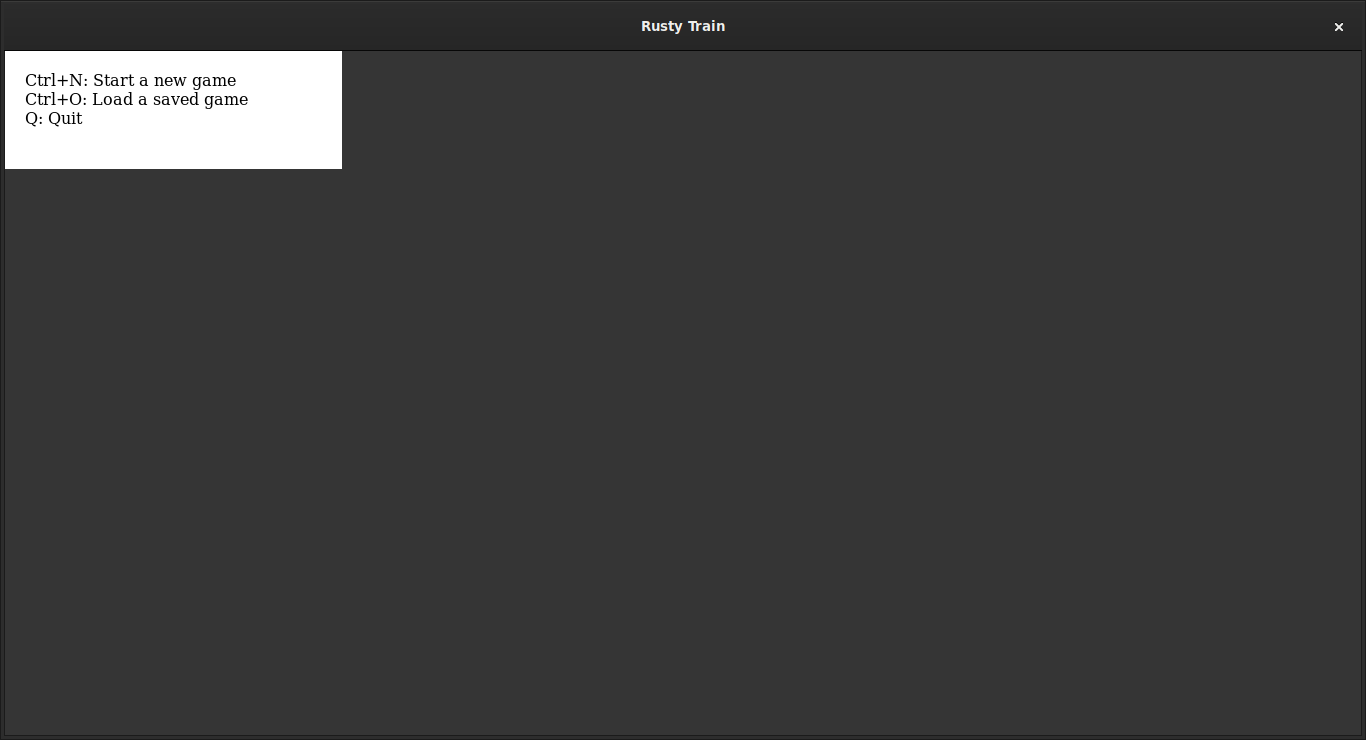
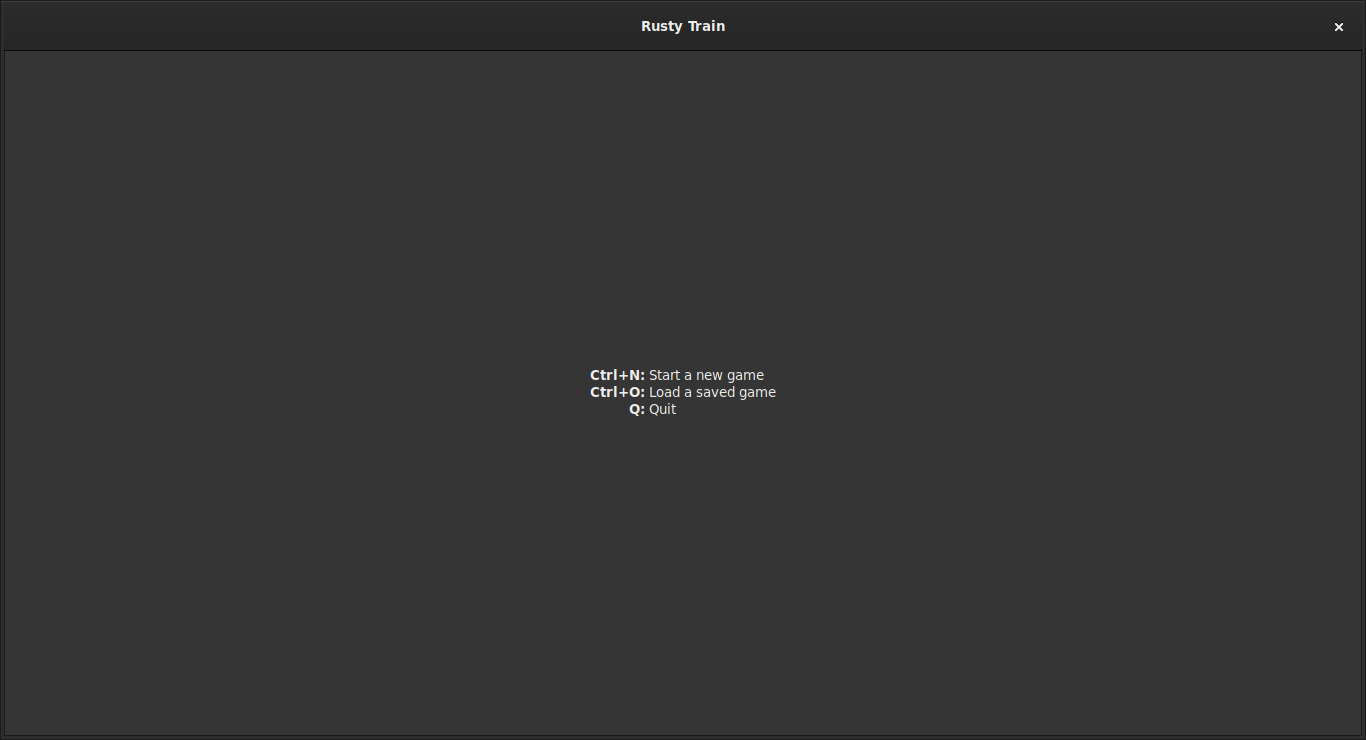
Show the starting help message with GTK labels
This respects the GTK theme, and is better handled in the Rusty Train
GUI than in the n18ui crate itself.

Changed region(s): [[0.0, 0.0622, 0.2767, 0.2486], [0.4305, 0.4973, 0.5534, 0.5595]]

diff --git a/src/bin/rusty_train.rs b/src/bin/rusty_train.rs
@@ -44,6 +44,7 @@ pub fn build(application: &gtk::Application) {
     let adj: Option<&gtk::Adjustment> = None;
     let scrolled_win = gtk::ScrolledWindow::new(adj, adj);
     let drawing_area = Box::new(DrawingArea::new)();
+    scrolled_win.set_child(Some(&drawing_area));
 
     // Create a second channel for sending "pings", which can be used to
     // trigger non-UI events, such as messages from tasks in other threads.
@@ -65,15 +66,10 @@ pub fn build(application: &gtk::Application) {
     );
     ui.draw();
 
-    let (width, height) = ui.map_size();
-
     bar.set_title(Some("Rusty Train"));
     bar.set_decoration_layout(Some("menu:close"));
     bar.set_show_close_button(true);
     window.set_titlebar(Some(&bar));
-
-    // Set the minimum size of the drawing area to the required canvas size.
-    drawing_area.set_size_request(width, height);
 
     // Create a channel to pass UI events to the `state` event handlers.
     let (tx, rx) =
@@ -115,8 +111,14 @@ pub fn build(application: &gtk::Application) {
         glib::source::Continue(true)
     });
 
+    // Show the starting message, rather than the map content.
+    let mut start_visible = true;
+    let start_widget = start_message();
+    window.set_child(Some(&start_widget));
+
     // Dispatch events to the appropriate handler.
     // Note that this closure owns `ui_state`.
+    let _window = window.clone();
     rx.attach(None, move |event| {
         let response = match event {
             UiEvent::ButtonPress(event) => ui.handle_button_press(&event),
@@ -124,13 +126,55 @@ pub fn build(application: &gtk::Application) {
             UiEvent::PingCurrentState(dest) => ui.ping(dest),
         };
         ui.respond(response);
+
+        // When a game is started or loaded, hide the starting message and
+        // show the map content instead.
+        if start_visible && ui.state.as_start().is_none() {
+            _window.remove(&start_widget);
+            _window.add(&scrolled_win);
+            _window.show_all();
+            start_visible = false;
+        }
+
         glib::source::Continue(true)
     });
 
     // Display the window.
-    window.set_default_size(width, height);
-    scrolled_win.add(&drawing_area);
-    window.add(&scrolled_win);
-    drawing_area.queue_draw();
     window.show_all();
+}
+
+/// Returns a Grid containing labels that identify the available key bindings
+/// when Rusty Train is launched.
+fn start_message() -> gtk::Grid {
+    let grid = gtk::Grid::builder()
+        .expand(true)
+        .halign(gtk::Align::Center)
+        .valign(gtk::Align::Center)
+        .build();
+    ["Ctrl+N", "Ctrl+O", "Q"]
+        .iter()
+        .enumerate()
+        .for_each(|(ix, text)| {
+            let label = gtk::Label::builder()
+                .use_markup(true)
+                .selectable(false)
+                .label(&format!("<b>{}:</b> ", text))
+                .expand(true)
+                .halign(gtk::Align::End)
+                .build();
+            grid.attach(&label, 0, ix as i32, 1, 1);
+        });
+    ["Start a new game", "Load a saved game", "Quit"]
+        .iter()
+        .enumerate()
+        .for_each(|(ix, text)| {
+            let label = gtk::Label::builder()
+                .selectable(false)
+                .label(text)
+                .expand(true)
+                .halign(gtk::Align::Start)
+                .build();
+            grid.attach(&label, 1, ix as i32, 1, 1);
+        });
+    grid
 }
